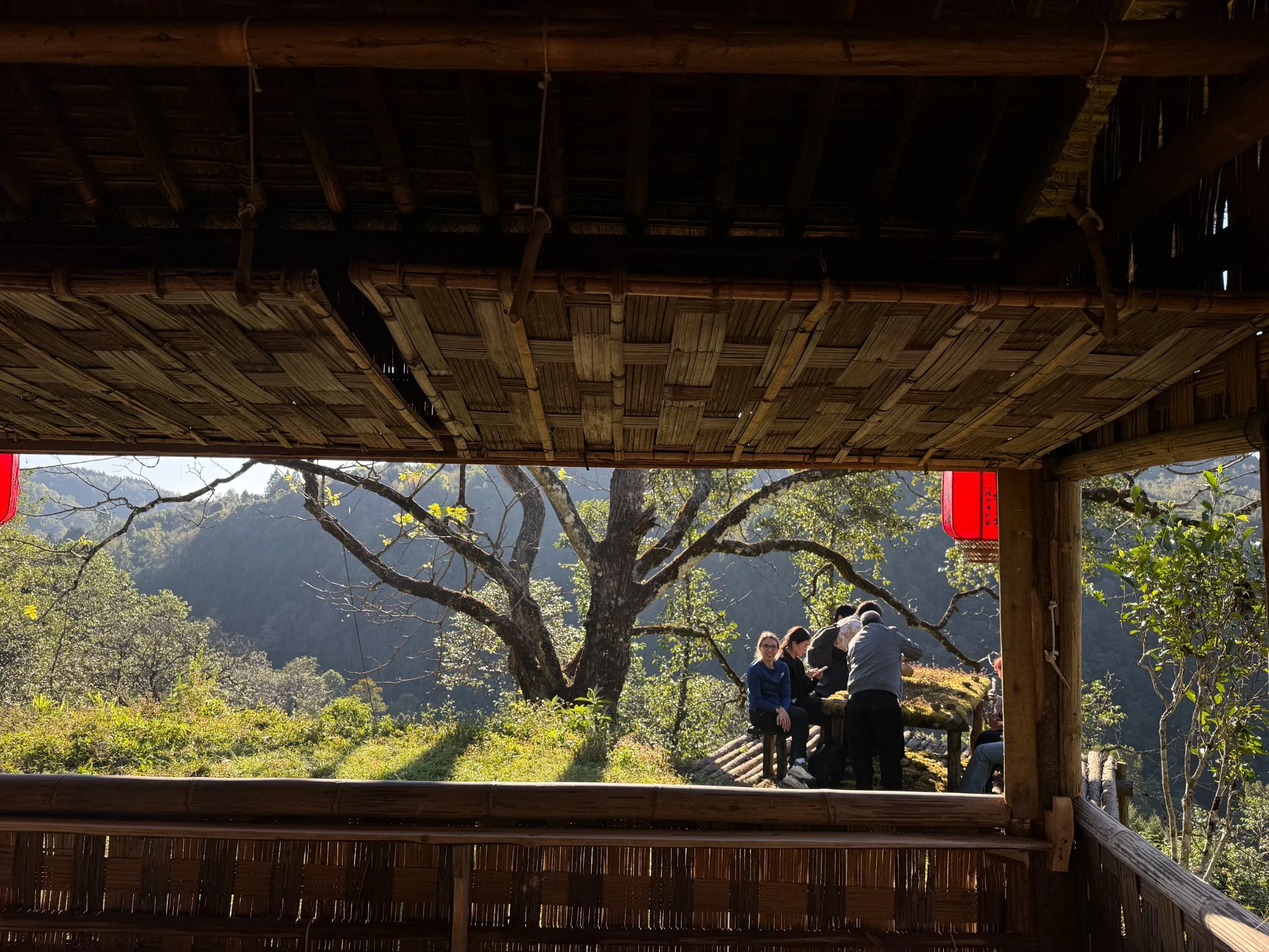
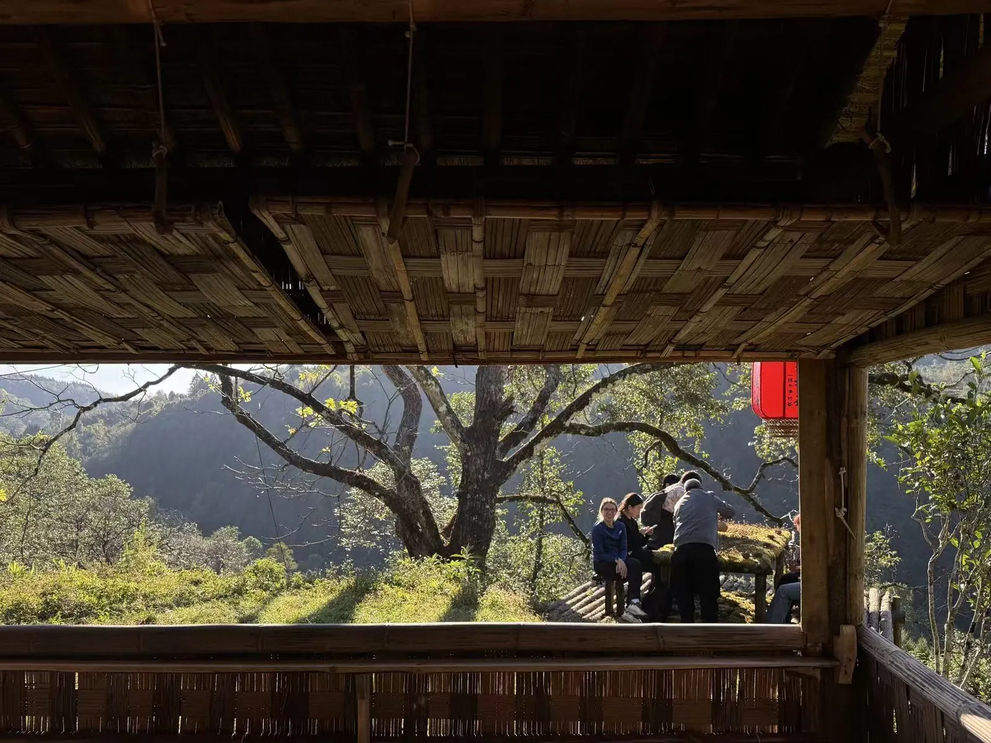
Replace Gaoligong tea-house field photograph and refresh image cache

diff --git a/research-gaoligong.html b/research-gaoligong.html
@@ -217,8 +217,8 @@
               <p>Historical review · Territorial and topographic mapping · Field walks and photographic observation · Informal on-site conversations · Documentation of existing tea-production and village spaces</p>
             </div>
           <figure class="ga-field-figure ga-full" data-ga-asset="02-tea-house-view.webp">
-  <button type="button" class="ga-zoom" aria-label="Enlarge image: Looking from beneath an existing bamboo tea-house roof toward a mountain tree and people gathering on a terrace." data-ga-zoom="assets/research-gaoligong/02-tea-house-view.webp">
-    <img loading="lazy" decoding="async" src="assets/research-gaoligong/02-tea-house-view.webp" alt="Looking from beneath an existing bamboo tea-house roof toward a mountain tree and people gathering on a terrace." onerror="this.closest('figure').hidden=true; const row=this.closest('.ga-split'); if(row) row.hidden=true">
+  <button type="button" class="ga-zoom" aria-label="Enlarge image: Looking from beneath an existing bamboo tea-house roof toward a mountain tree and people gathering on a terrace." data-ga-zoom="assets/research-gaoligong/02-tea-house-view.webp?v=20261011">
+    <img loading="lazy" decoding="async" src="assets/research-gaoligong/02-tea-house-view.webp?v=20261011" alt="Looking from beneath an existing bamboo tea-house roof toward a mountain tree and people gathering on a terrace." onerror="this.closest('figure').hidden=true; const row=this.closest('.ga-split'); if(row) row.hidden=true">
     <span class="ga-zoom-hint" aria-hidden="true">VIEW ↗</span>
   </button>
   <figcaption><em>Field observation / Tea house and mountain setting.</em> Existing bamboo construction frames a landscape that is both inhabited and worked.</figcaption>
